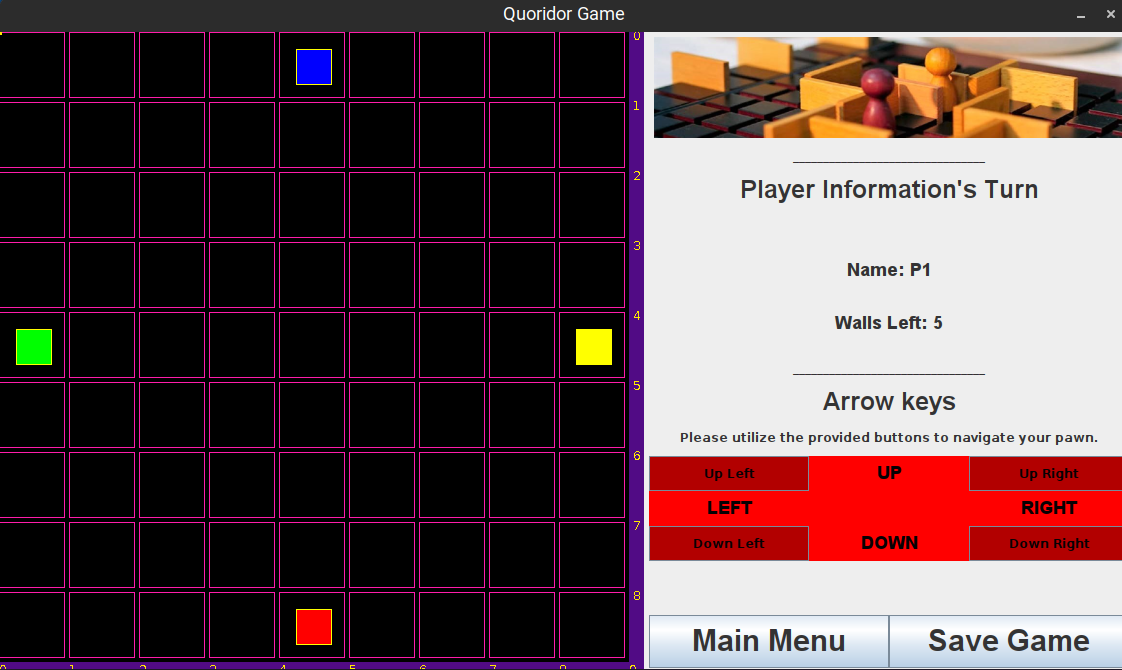
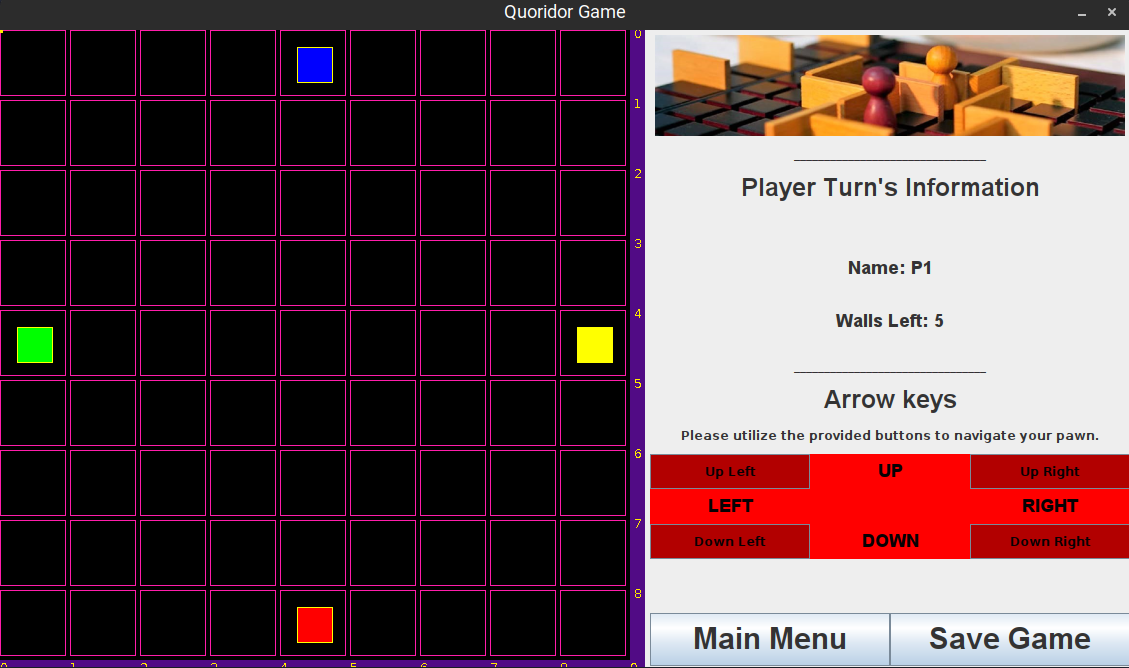
update README.md file

diff --git a/src/com/company/SidePanel.java b/src/com/company/SidePanel.java
@@ -409,7 +409,7 @@ public class SidePanel extends JPanel {
         labelInfo.setLayout(new GridLayout(3, 1));
         labelInfo.add(new JLabel("________________________________", SwingConstants.CENTER));
 
-        JLabel information = new JLabel("Player Information's Turn", SwingConstants.CENTER);
+        JLabel information = new JLabel("Player Turn's Information", SwingConstants.CENTER);
         information.setFont(new Font("Arial", Font.BOLD, 25));
         labelInfo.add(information);
 

diff --git a/README.md b/README.md
@@ -1,6 +1,7 @@
 # Quoridor Game
 ![Quoridor Image1](images/im1.png)
-![Quoridor Image3](images/im3.png)
+![Quoridor Image3](images/im2.png)
+
 Welcome to the Quoridor Game, a Java implementation of the popular board game Quoridor. The game features a graphical
 user interface (GUI) where players can compete against each other on a virtual game board. The project provides an
 engaging and strategic gaming experience for 2 to 4 players, including cup tournaments with 4 or 8 players.
